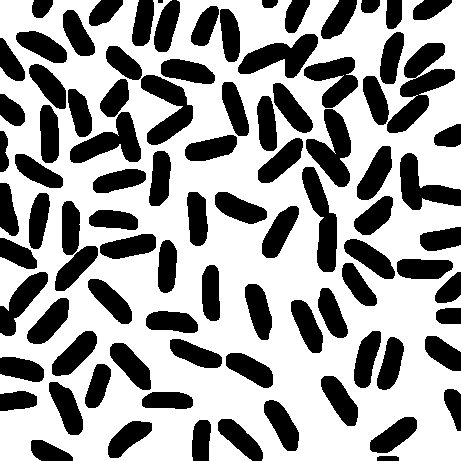
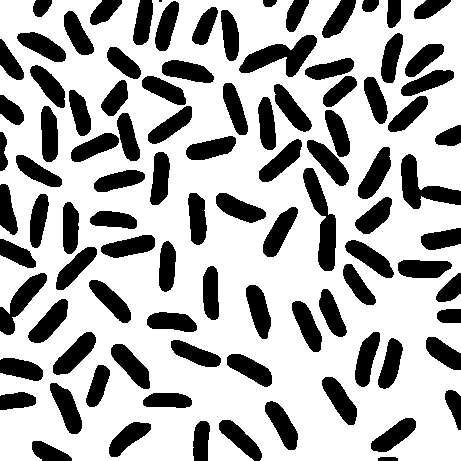
complete prj1

diff --git a/processing.py b/processing.py
@@ -223,7 +223,7 @@ def closing_morphological(img):
 
 def erosion(img):
    
-   kernel = np.ones((5, 5), np.uint8)
+   kernel = np.ones((3, 3), np.uint8)
 
    invert = cv2.bitwise_not(img)
 
@@ -233,6 +233,10 @@ def erosion(img):
 
 
 def find_contours(img):
+   
+   imgray = cv2.cvtColor(img, cv.COLOR_BGR2GRAY)
+   ret, thresh = cv2.threshold(imgray, 50, 100, 0)
+   contours, hierarchy = cv2.findContours(thresh, cv2.RETR_TREE, cv2.CHAIN_APPROX_NONE)
    
    cv2.imshow('Input', img)
 
@@ -264,8 +268,8 @@ img = adaptive_threshold(img)
 cv2.imwrite("After adaptive threshold.png", img=img)
 
 
-img = closing_morphological(img)
-cv2.imwrite("After closing morphological.png", img=img)
+# img = closing_morphological(img)
+# cv2.imwrite("After closing morphological.png", img=img)
 
 img = erosion(img)
 cv2.imwrite("After erosion.png", img=img)

diff --git a/contours.py b/contours.py
@@ -3,7 +3,7 @@ import cv2 as cv
 
 im = cv.imread('After erosion.png')
 imgray = cv.cvtColor(im, cv.COLOR_BGR2GRAY)
-ret, thresh = cv.threshold(imgray, 127, 255, 0)
+ret, thresh = cv.threshold(imgray, 50, 100, 0)
 contours, hierarchy = cv.findContours(thresh, cv.RETR_TREE, cv.CHAIN_APPROX_NONE)
 
 print("Number of Contours found = " + str(len(contours)))
